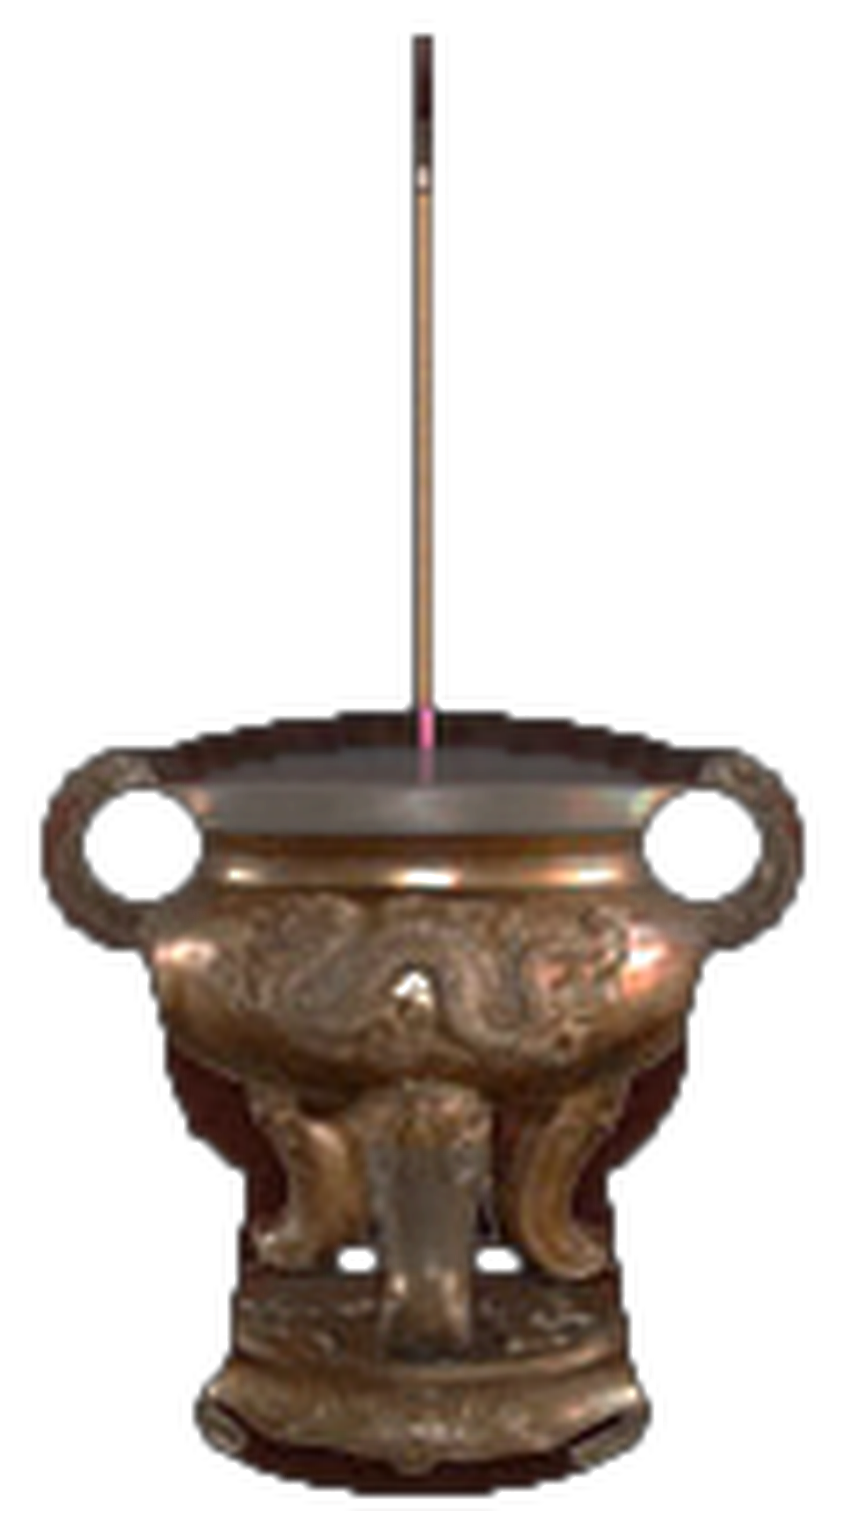
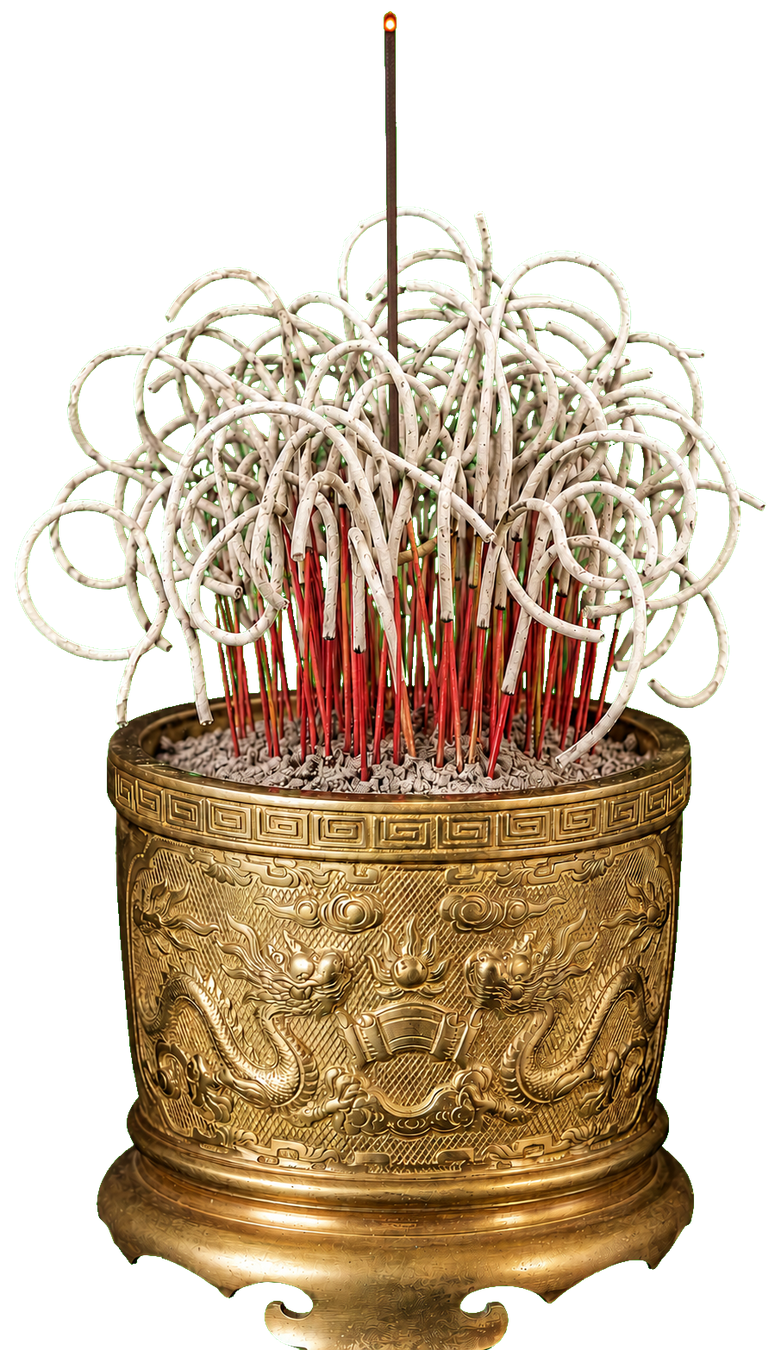
feat: replace incense burner artwork

diff --git a/src/components/Homepage.jsx b/src/components/Homepage.jsx
@@ -86,9 +86,9 @@ function IncenseSmokeCanvas() {
     smokeSprite.width = 96;
     smokeSprite.height = 96;
     const spriteGradient = spriteCtx.createRadialGradient(48, 48, 0, 48, 48, 48);
-    spriteGradient.addColorStop(0, "rgba(255, 255, 255, 0.5)");
-    spriteGradient.addColorStop(0.24, "rgba(252, 248, 240, 0.28)");
-    spriteGradient.addColorStop(0.58, "rgba(225, 220, 210, 0.12)");
+    spriteGradient.addColorStop(0, "rgba(255, 255, 255, 0.68)");
+    spriteGradient.addColorStop(0.24, "rgba(252, 248, 240, 0.38)");
+    spriteGradient.addColorStop(0.58, "rgba(225, 220, 210, 0.16)");
     spriteGradient.addColorStop(1, "rgba(220, 215, 206, 0)");
     spriteCtx.fillStyle = spriteGradient;
     spriteCtx.fillRect(0, 0, 96, 96);
@@ -135,7 +135,7 @@ function IncenseSmokeCanvas() {
         }
 
         const size = particle.startSize + (particle.endSize - particle.startSize) * progress;
-        const alpha = Math.sin(progress * Math.PI) * 0.34;
+        const alpha = Math.sin(progress * Math.PI) * 0.46;
         particle.x += particle.vx + Math.sin(time * 0.0015 + index) * 0.06;
         particle.y += particle.vy;
         particle.angle += particle.spin;

diff --git a/src/components/Homepage.css b/src/components/Homepage.css
@@ -1507,8 +1507,8 @@
 .incense-image-wrap {
   position: relative;
   width: auto;
-  height: clamp(126px, 22vh, 170px);
-  aspect-ratio: 9 / 16;
+  height: clamp(160px, 26vh, 220px);
+  aspect-ratio: 781 / 1350;
   display: grid;
   place-items: end center;
   overflow: visible;
@@ -1519,7 +1519,7 @@
   position: absolute;
   z-index: 4;
   left: 50%;
-  top: 6.8%;
+  top: 1.4%;
   width: 6px;
   height: 6px;
   border-radius: 999px;
@@ -1545,9 +1545,9 @@
   position: absolute;
   z-index: 12;
   left: 50%;
-  top: -44%;
+  top: -60%;
   width: 76px;
-  height: 62%;
+  height: 70%;
   transform: translateX(-50%);
   mix-blend-mode: normal;
   opacity: 0.96;
